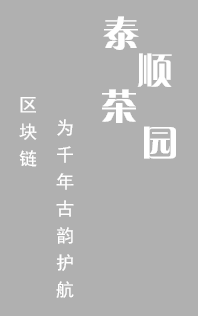
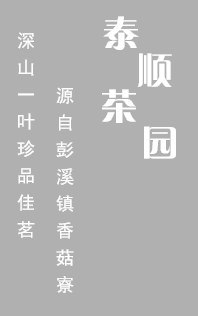
4.4

Changed region(s): [[0.2727, 0.2563, 0.3939, 0.9399], [0.0909, 0.2848, 0.1818, 0.769], [0.0909, 0.0854, 0.1818, 0.2563]]

diff --git a/src/Consumer/Consumer.js b/src/Consumer/Consumer.js
@@ -481,7 +481,7 @@ export default class Consumer extends Component {
                   <img src={require('./banner3.png')} />
                 </div>
                 <div className="section">
-                  <div className="sub-title css12594a6bbd1d0b6">白毫茶</div>
+                  <div className="sub-title css12594a6bbd1d0b6">香菇寮白毫</div>
                   <div className="sub-title1 css12594a6bbd1d0b6">全球唯一追溯ID: <span>{data.teaInfo.teaID}</span></div>
                   <WingBlank>
                     <Carousel className="space-carousel"

diff --git a/src/Consumer/taishun.css b/src/Consumer/taishun.css
@@ -6,6 +6,7 @@
   width: 100%;
   height:3.9rem;
   background:url(http://maoyang.terabits.cn/tsbanners.jpg) no-repeat center center;
+  background:url(http://maoyang.terabits.cn/timgs.png) no-repeat center center;
   background-size:100%;
 }
 #taishun_body .banner img{
